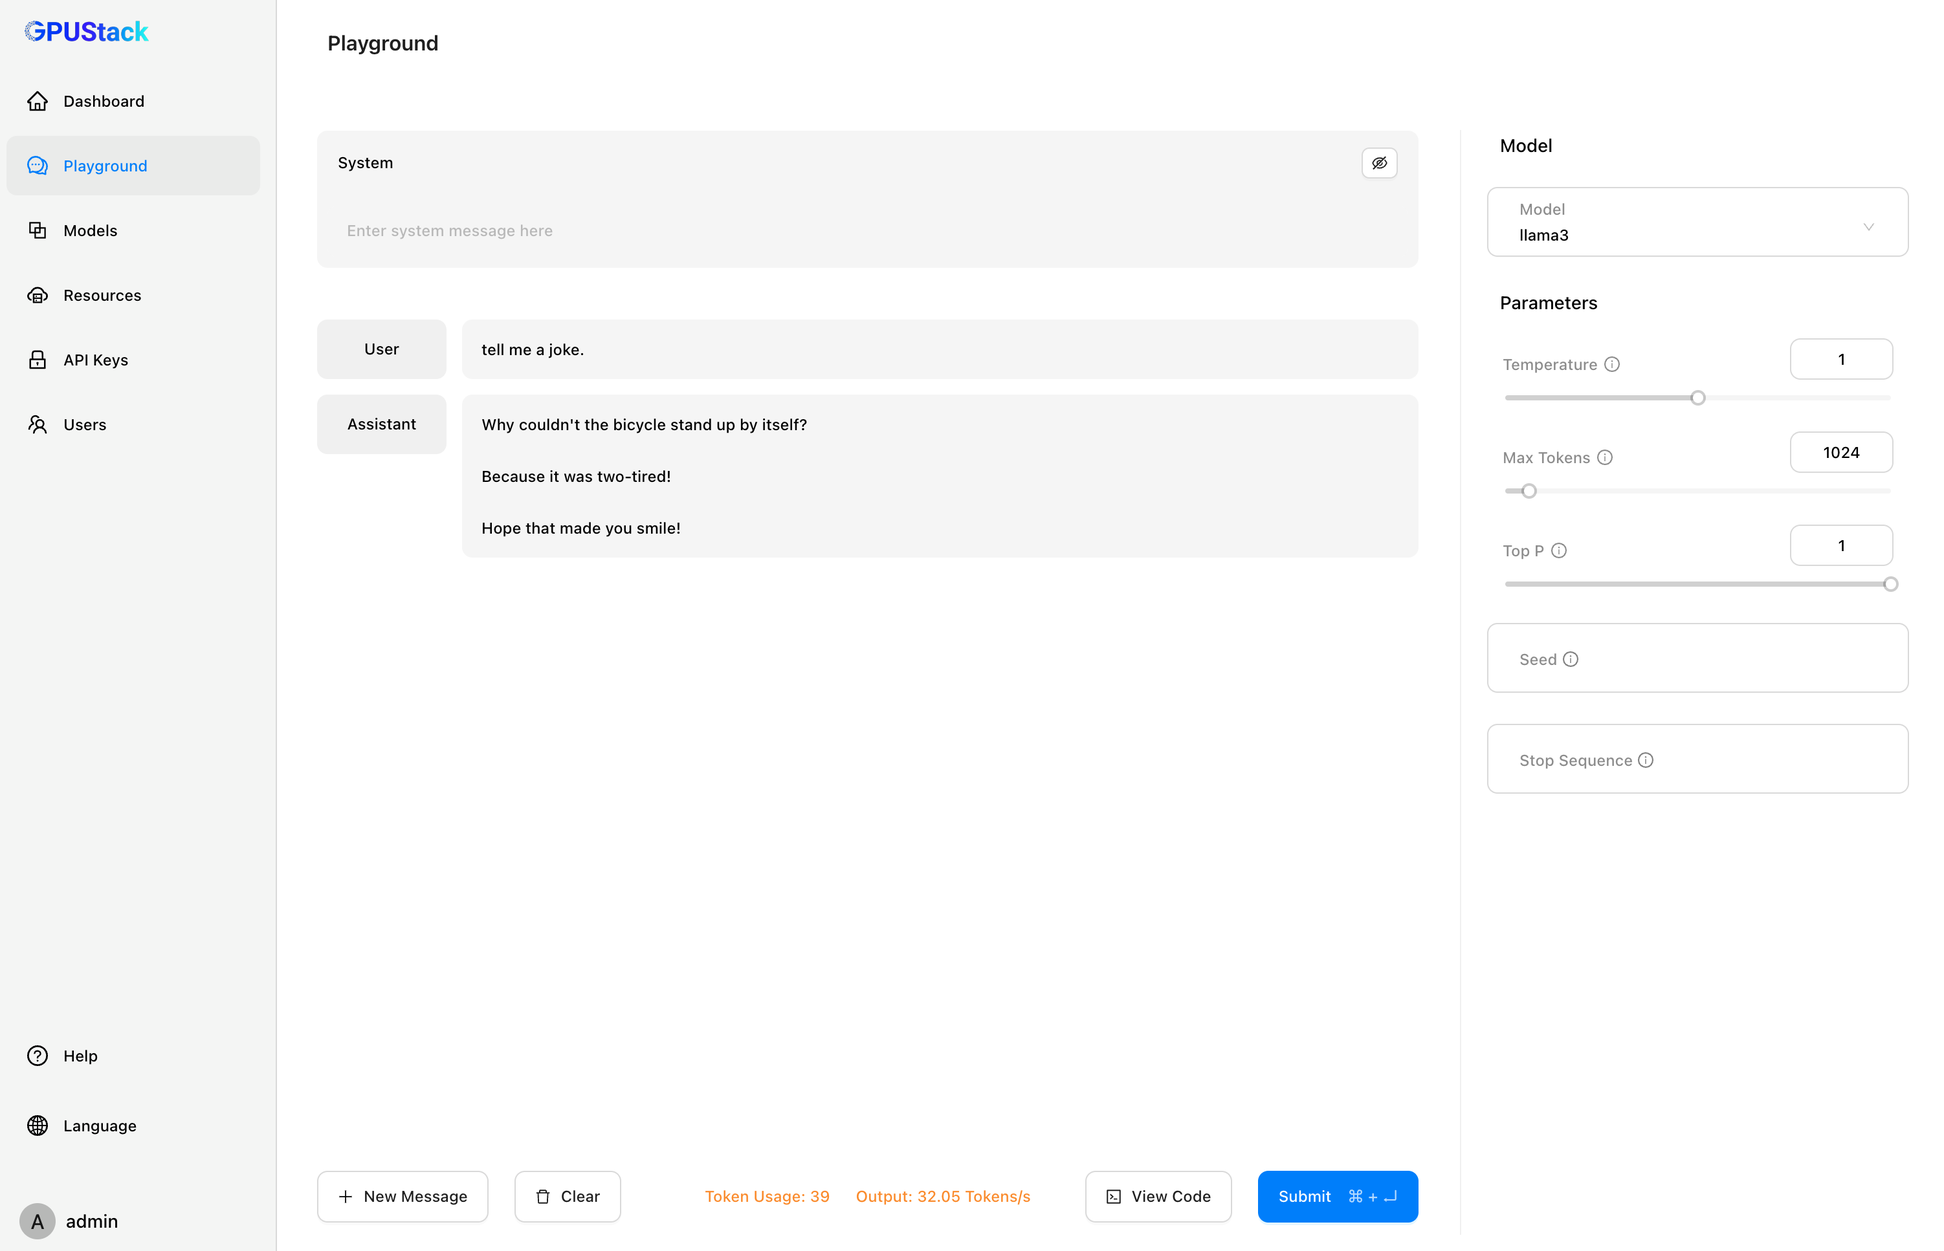
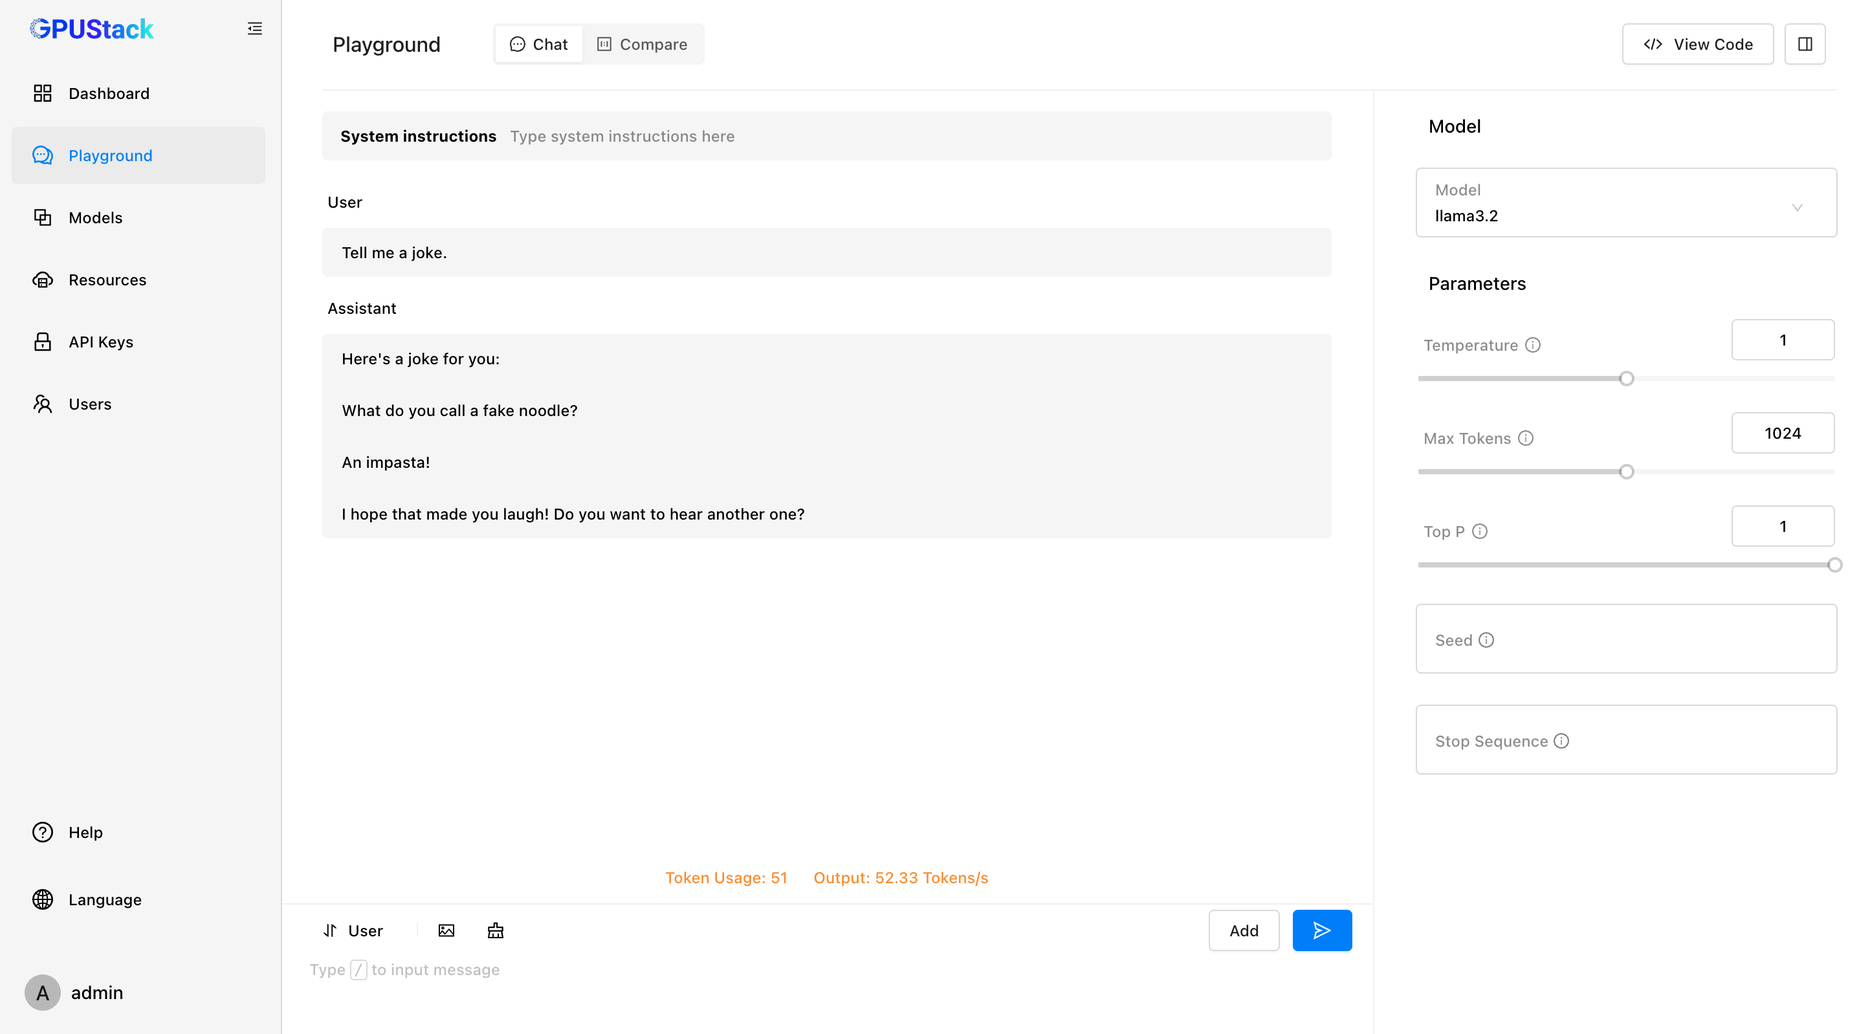
docs: new features

diff --git a/docs/user-guide/model-management.md b/docs/user-guide/model-management.md
@@ -4,13 +4,27 @@ You can manage large language models in GPUStack by navigating to the `Models` p
 
 ## Deploy Model
 
-Currently, models from [Hugging Face](https://huggingface.co) and [Ollama](https://ollama.com/library) in [GGUF format](https://github.com/ggerganov/ggml/blob/master/docs/gguf.md) are supported.
+Currently, models from [Hugging Face](https://huggingface.co), [ModelScope](https://modelscope.cn) and [Ollama](https://ollama.com/library) are supported.
 
 ### Deploying a Hugging Face Model
 
 1. Click the `Deploy Model` button, then select `Hugging Face` in the dropdown.
 
 2. Search the model by name from Hugging Face using the search bar in the top left. For example, `microsoft/Phi-3-mini-4k-instruct-gguf`. If you only want to search for GGUF models, check the "GGUF" checkbox.
+
+3. Select a file with the desired quantization format from `Available Files`.
+
+4. Adjust the `Name` and `Replicas` as needed.
+
+5. Expand the `Advanced` section for advanced configurations if needed. Please refer to the [Advanced Model Configuration](#advanced-model-configuration) section for more details.
+
+6. Click the `Save` button.
+
+### Deploying an ModelScope Model
+
+1. Click the `Deploy Model` button, then select `ModelScope` in the dropdown.
+
+2. Search the model by name from ModelScope using the search bar in the top left. For example, `Qwen/Qwen2-0.5B-Instruct`. If you only want to search for GGUF models, check the "GGUF" checkbox.
 
 3. Select a file with the desired quantization format from `Available Files`.
 
@@ -34,26 +48,16 @@ Currently, models from [Hugging Face](https://huggingface.co) and [Ollama](https
 
 6. Click the `Save` button.
 
-### Deploying an ModelScope Model
-
-1. Click the `Deploy Model` button, then select `ModelScope` in the dropdown.
-
-2. Search the model by name from ModelScope using the search bar in the top left. For example, `Qwen/Qwen2-0.5B-Instruct`. If you only want to search for GGUF models, check the "GGUF" checkbox.
-
-3. Select a file with the desired quantization format from `Available Files`.
-
-4. Adjust the `Name` and `Replicas` as needed.
-
-5. Expand the `Advanced` section for advanced configurations if needed. Please refer to the [Advanced Model Configuration](#advanced-model-configuration) section for more details.
-
-6. Click the `Save` button.
-
 ## Edit Model
 
 1. Find the model you want to edit on the model list page.
 2. Click the `Edit` button in the `Operations` column.
 3. Update the attributes as needed. For example, change the `Replicas` to scale up or down.
 4. Click the `Save` button.
+
+!!! note
+
+    After editing the model, the configuration will not be applied to existing model instances. You need to delete the existing model instances. GPUStack will recreate new instances based on the updated model configuration.
 
 ## Delete Model
 
@@ -118,17 +122,17 @@ GPUStack automatically schedules model instances to appropriate GPUs/Workers bas
 
 - Placement Strategy
 
-    - Spread: Make the resources of the entire cluster relatively evenly distributed among all workers. It may produce more resource fragmentation on a single worker.
+  - Spread: Make the resources of the entire cluster relatively evenly distributed among all workers. It may produce more resource fragmentation on a single worker.
 
-    - Binpack: Prioritize the overall utilization of cluster resources, reducing resource fragmentation on Workers/GPUs.
+  - Binpack: Prioritize the overall utilization of cluster resources, reducing resource fragmentation on Workers/GPUs.
 
 - Worker Selector
 
-    When configured, the scheduler will deploy the model instance to the worker containing specified labels.
+  When configured, the scheduler will deploy the model instance to the worker containing specified labels.
 
-    1. Navigate to the `Resources` page and edit the desired worker. Assign custom labels to the worker by adding them in the labels section.
+  1. Navigate to the `Resources` page and edit the desired worker. Assign custom labels to the worker by adding them in the labels section.
 
-    2. Go to the `Models` page and click on the `Deploy Model` button. Expand the `Advanced` section and input the previously assigned worker labels in the `Worker Selector` configuration. During deployment, the Model Instance will be allocated to the corresponding worker based on these labels.
+  2. Go to the `Models` page and click on the `Deploy Model` button. Expand the `Advanced` section and input the previously assigned worker labels in the `Worker Selector` configuration. During deployment, the Model Instance will be allocated to the corresponding worker based on these labels.
 
 #### Manual
 
@@ -136,30 +140,33 @@ This schedule type allows users to specify which GPU to deploy the model instanc
 
 - GPU Selector
 
-    Select a GPU from the list. The model instance will attempt to deploy to this GPU if resources permit.
+  Select a GPU from the list. The model instance will attempt to deploy to this GPU if resources permit.
 
 ### Backend
 
-#### llama-box
+The inference backend. Currently, GPUStack supports two backends: llama-box and vLLM. GPUStack automatically selects the backend based on the model's information.
 
-[llama-box](https://github.com/gpustack/llama-box) is a LLM inference engine implementation based on llama.cpp. This backend supports deploying GGUF model files, CPU offloading and distributed inference across workers.
+For more details, please refer to the [Inference Backends](./inference-backends.md) section.
 
-- Backend Parameters
+### Backend Parameters
 
-    Input the paramters for llama-box you want to customize while running llama-box backend, for example `--ctx-size=8192`. You can see the list of supported parameters [here](https://github.com/gpustack/llama-box).
+Input the parameters for the backend you want to customize while running the model instance. Should be in the format `--parameter=value`, `--bool-parameter` or separate `--parameter` and `value` in two fields.
+For example, `--ctx-size=8192` for llama-box.
 
-- Allow CPU Offloading
+For full list of supported parameters, please refer to the [Inference Backends](./inference-backends.md) section.
 
-    After enabling CPU offloading, GPUStack prioritizes loading as many layers as possible onto the GPU to maximize performance. If GPU resources are limited, some layers will be offloaded to the CPU, with full CPU inference used only when no GPU is available.
+### Allow CPU Offloading
 
-- Allow Distributed Inference Across Workers
+!!! note
 
-    Enable distributed inference across multiple workers. The primary Model Instance will communicate with backend instances on one or more others workers, offloading computation tasks to them.
+    Available for llama-box backend only.
 
-#### vLLM
+After enabling CPU offloading, GPUStack prioritizes loading as many layers as possible onto the GPU to optimize performance. If GPU resources are limited, some layers will be offloaded to the CPU, with full CPU inference used only when no GPU is available.
 
-[vLLM](https://github.com/vllm-project/vllm) is a high-throughput and memory-efficient LLMs inference engine. vLLM seamlessly supports most popular open-source models, including: Transformer-like LLMs (e.g., Llama), Mixture-of-Expert LLMs (e.g., Mixtral), Embedding Models (e.g. E5-Mistral), Multi-modal LLMs (e.g., LLaVA)
+### Allow Distributed Inference Across Workers
 
-- Backend Parameters
+!!! note
 
-    Input the paramters for llama-box you want to customize while running vLLM backend, for example `--max-model-len=8192`. You can see the list of supported parameters [here](https://docs.vllm.ai/en/latest/models/engine_args.html).
+    Available for llama-box backend only.
+
+Enable distributed inference across multiple workers. The primary Model Instance will communicate with backend instances on one or more other workers, offloading computation tasks to them.

diff --git a/docs/overview.md b/docs/overview.md
@@ -9,6 +9,7 @@ GPUStack is an open-source GPU cluster manager for running large language models
 - **Supports a Wide Variety of Hardware:** Run with different brands of GPUs in Apple MacBooks, Windows PCs, and Linux servers.
 - **Scales with Your GPU Inventory:** Easily add more GPUs or nodes to scale up your operations.
 - **Distributed Inference**: Supports both single-node multi-GPU and multi-node inference and serving.
+- **Multiple Inference Backends**: Supports llama-box(llama.cpp) and vLLM as the inference backend.
 - **Lightweight Python Package:** Minimal dependencies and operational overhead.
 - **OpenAI-compatible APIs:** Serve APIs that are compatible with OpenAI standards.
 - **User and API key management:** Simplified management of users and API keys.
@@ -21,12 +22,14 @@ GPUStack is an open-source GPU cluster manager for running large language models
 - [x] Windows
 - [x] Linux
 
-| Distributions | Versions        | 
-|---------------|-----------------| 
+The following Linux distributions are verified to work with GPUStack:
+
+| Distributions | Versions        |
+| ------------- | --------------- |
 | Ubuntu        | \>= 20.04       |
 | Debian        | \>= 11          |
-| RHEL          | \>= 9           |
-| Rocky         | \>= 9           |
+| RHEL          | \>= 8           |
+| Rocky         | \>= 8           |
 | Fedora        | \>= 36          |
 | OpenSUSE      | \>= 15.3 (leap) |
 | OpenEuler     | \>= 22.03       |
@@ -34,7 +37,6 @@ GPUStack is an open-source GPU cluster manager for running large language models
 !!! note
 
     The installation of GPUStack worker on a Linux system requires that the GLIBC version be 2.29 or higher.
-
 
 ## Supported Accelerators
 
@@ -50,29 +52,36 @@ We plan to support the following accelerators in future releases.
 
 ## Supported Models
 
-GPUStack uses [llama.cpp](https://github.com/ggerganov/llama.cpp) as the backend and supports large language models in [GGUF format](https://github.com/ggerganov/ggml/blob/master/docs/gguf.md). Models from the following sources are supported:
+GPUStack uses [llama.cpp](https://github.com/ggerganov/llama.cpp) and [vLLM](https://github.com/vllm-project/vllm) as the backends and supports a wide range of models. Models from the following sources are supported:
 
 1. [Hugging Face](https://huggingface.co/)
 
-2. [Ollama Library](https://ollama.com/library)
+2. [ModelScope](https://modelscope.cn/)
 
-Here are some example models:
+3. [Ollama Library](https://ollama.com/library)
+
+Example language models:
 
 - [x] [LLaMA](https://huggingface.co/meta-llama)
 - [x] [Mistral 7B](https://huggingface.co/mistralai/Mistral-7B-v0.1)
 - [x] [Mixtral MoE](https://huggingface.co/models?search=mistral-ai/Mixtral)
-- [x] [DBRX](https://huggingface.co/databricks/dbrx-instruct)
 - [x] [Falcon](https://huggingface.co/models?search=tiiuae/falcon)
 - [x] [Baichuan](https://huggingface.co/models?search=baichuan-inc/Baichuan)
-- [x] [Aquila](https://huggingface.co/models?search=BAAI/Aquila)
 - [x] [Yi](https://huggingface.co/models?search=01-ai/Yi)
-- [x] [StableLM](https://huggingface.co/stabilityai)
 - [x] [Deepseek](https://huggingface.co/models?search=deepseek-ai/deepseek)
 - [x] [Qwen](https://huggingface.co/models?search=Qwen/Qwen)
 - [x] [Phi](https://huggingface.co/models?search=microsoft/phi)
-- [x] [Gemma](https://huggingface.co/models?search=google/gemma)
-- [x] [Mamba](https://huggingface.co/models?search=state-spaces/mamba)
 - [x] [Grok-1](https://huggingface.co/xai-org/grok-1)
+
+Example multimodal models:
+
+- [x] [Llama3.2-Vision](https://huggingface.co/models?pipeline_tag=image-text-to-text&search=llama3.2)
+- [x] [Pixtral](https://huggingface.co/models?search=pixtral)
+- [x] [Qwen2-VL](https://huggingface.co/models?search=Qwen/Qwen2-VL)
+- [x] [LLaVA](https://huggingface.co/models?search=llava)
+- [x] [InternVL2](https://huggingface.co/models?search=internvl2)
+
+For full list of supported models, please refer to the supported models section in the [inference backends](./user-guide/inference-backends.md) documentation.
 
 ## OpenAI-Compatible APIs
 

diff --git a/docs/user-guide/inference-backends.md b/docs/user-guide/inference-backends.md
@@ -1,0 +1,72 @@
+# Inference Backends
+
+GPUStack supports the following inference backends:
+
+- llama-box
+- vLLM
+
+When users deploy a model, the backend is selected automatically based on the following criteria:
+
+- If the model is a [GGUF](https://github.com/ggerganov/ggml/blob/master/docs/gguf.md) model, llama-box is used.
+- Otherwise, vLLM is used.
+
+## llama-box
+
+[llama-box](https://github.com/gpustack/llama-box) is a LLM inference server based on [llama.cpp](https://github.com/ggerganov/llama.cpp).
+
+### Supported Platforms
+
+The llama-box backend works on a wide range of platforms, including Windows, MacOS, and Linux.
+
+### Supported Models
+
+Please refer to the list of supported models in [README](https://github.com/ggerganov/llama.cpp#description) of llama.cpp project.
+
+### Supported Features
+
+#### Allow CPU Offloading
+
+After enabling CPU offloading, GPUStack prioritizes loading as many layers as possible onto the GPU to optimize performance. If GPU resources are limited, some layers will be offloaded to the CPU, with full CPU inference used only when no GPU is available.
+
+#### Allow Distributed Inference Across Workers
+
+Enable distributed inference across multiple workers. The primary Model Instance will communicate with backend instances on one or more others workers, offloading computation tasks to them.
+
+### Parameters Reference
+
+See the full list of supported parameters for llama-box [here](https://github.com/gpustack/llama-box#usage).
+
+## vLLM
+
+[vLLM](https://github.com/vllm-project/vllm) is a high-throughput and memory-efficient LLMs inference engine. It is a popular choice for running LLMs in production. vLLM seamlessly supports most state-of-the-art open-source models, including: Transformer-like LLMs (e.g., Llama), Mixture-of-Expert LLMs (e.g., Mixtral), Embedding Models (e.g. E5-Mistral), Multi-modal LLMs (e.g., LLaVA)
+
+By default, GPUStack estimates the VRAM requirement for the model instance based on the model's metadata. You can customize the parameters to fit your needs. The following vLLM parameters might be useful:
+
+- `--gpu-memory-utilization` (default: 0.9): The fraction of GPU memory to use for the model instance.
+- `--max-model-len`: Model context length. For large-context models, GPUStack automatically sets this parameter to `8192` to simplify model deployment, especially in resource constrained environments. You can customize this parameter to fit your needs.
+- `--tensor-parallel-size`: Number of tensor parallel replicas. By default, GPUStack sets this parameter given the GPU resources available and the estimation of the model's memory requirement. You can customize this parameter to fit your needs.
+
+For more details, please refer to [vLLM documentation](https://docs.vllm.ai/en/stable/serving/openai_compatible_server.html#command-line-arguments-for-the-server).
+
+### Supported Platforms
+
+The vLLM backend works on Linux.
+
+!!! note
+
+    1. When users install GPUStack on amd64 Linux using the installation script, vLLM is automatically installed.
+    2. When users deploy a model using the vLLM backend, GPUStack sets worker label selectors to `{"os": "linux", "arch": "amd64"}` by default to ensure the model instance is scheduled to proper workers. You can customize the worker label selectors in the model configuration.
+
+### Supported Models
+
+Please refer to the vLLM [documentation](https://docs.vllm.ai/en/stable/models/supported_models.html) for supported models.
+
+### Supported Features
+
+#### Multimodal Language Models
+
+vLLM supports multimodal language models listed [here](https://docs.vllm.ai/en/stable/models/supported_models.html#multimodal-language-models). When users deploy a vision language model using the vLLM backend, image inputs are supported in the chat completion API.
+
+### Parameters Reference
+
+See the full list of supported parameters for vLLM [here](https://docs.vllm.ai/en/stable/serving/openai_compatible_server.html#command-line-arguments-for-the-server).

diff --git a/docs/user-guide/playground.md b/docs/user-guide/playground.md
@@ -4,7 +4,9 @@ GPUStack provides a playground UI for users to test or play with the completion 
 
 ![Playground Screenshot](../assets/playground-screenshot.png)
 
-## Prompts
+## Chat Playground
+
+### Prompts
 
 You can adjust the prompt messages on the left side of the playground. There are three role types of prompt messages: system, user, and assistant.
 
@@ -12,11 +14,11 @@ You can adjust the prompt messages on the left side of the playground. There are
 - **User**: The input or query provided by the user (the person interacting with the LLM).
 - **Assistant**: The response generated by the LLM.
 
-## Edit System Message
+### Edit System Message
 
 You can add and edit the system message at the top of the playground.
 
-## Edit User and Assistant Messages
+### Edit User and Assistant Messages
 
 To add a user or assistant message, click the `New Message` button.
 
@@ -24,22 +26,56 @@ To remove a user or assistant message, click the minus button at the right corne
 
 To change the role of a message, click the `User` or `Assistant` text at the beginning of the message.
 
-## Clear Prompts
+### Upload Image
+
+You can add images to the prompt by clicking the `Upload Image` button.
+
+### Clear Prompts
 
 Click the `Clear` button to clear all the prompts.
 
-## Select Model
+### Select Model
 
 You can select available models in GPUStack by clicking the model dropdown at the top-right corner of the playground. Please refer to [Model Management](./model-management.md) to learn about how to manage models.
 
-## Customize Parameters
+### Customize Parameters
 
 You can customize completion parameters in the `Parameters` section.
 
-## Do Completion
+### Do Completion
 
 You can do a completion by clicking the `Submit` button.
 
-## View Code
+### View Code
 
 Once you've done experimenting with the prompts and parameters, you can click the `View Code` button to check how you can call the API with the same input by code. Code examples in `curl`, `python`, and `nodejs` are provided.
+
+## Compare Playground
+
+You can compare multiple models in the playground. The following is an example screenshot:
+
+![Compare Playground Screenshot](../assets/compare-playground-screenshot.png)
+
+### Comparision Mode
+
+You can choose the number of models to compare by clicking the comparison view buttons, including 2, 3, 4 and 6-model comparison.
+
+### Prompts
+
+You can adjust the prompt messages similar to the chat playground.
+
+### Upload Image
+
+You can add images to the prompt by clicking the `Upload Image` button.
+
+### Clear Prompts
+
+Click the `Clear` button to clear all the prompts.
+
+### Select Model
+
+You can select available models in GPUStack by clicking the model dropdown at the top-left corner of each model panel.
+
+### Customize Parameters
+
+You can customize completion parameters by clicking the settings button of each model.

diff --git a/docs/scheduler.md b/docs/scheduler.md
@@ -42,8 +42,8 @@ The scoring phase evaluates the filtered candidates, scoring them to select the 
 
 - Binpack
 
-  This strategy aims to "pack" as many model instances as possible into the fewest number of "bins" (e.g., Workers/GPUs) to maximize resource utilization. The goal is to minimize the number of bins used while maximizing resource efficiency, ensuring each bin is filled as efficiently as possible without exceeding its capacity. Model instances are placed in the bin with the least remaining space to minimize leftover capacity in each bin.
+  This strategy aims to "pack" as many model instances as possible into the fewest number of "bins" (e.g., Workers/GPUs) to optimize resource utilization. The goal is to minimize the number of bins used while maximizing resource efficiency, ensuring each bin is filled as efficiently as possible without exceeding its capacity. Model instances are placed in the bin with the least remaining space to minimize leftover capacity in each bin.
 
 - Spread
-  
+
   This strategy seeks to distribute multiple model instances across different worker nodes as evenly as possible, improving system fault tolerance and load balancing.

diff --git a/docs/architecture.md b/docs/architecture.md
@@ -26,7 +26,7 @@ The GPUStack server connects to a SQL database as the datastore. Currently, GPUS
 
 ### Inference Server
 
-Inference servers are the backends that performs the inference tasks. GPUStack uses [llama-box](https://github.com/gpustack/llama-box) as the inference server.
+Inference servers are the backends that performs the inference tasks. GPUStack supports [llama-box](https://github.com/gpustack/llama-box) and [vLLM](https://github.com/vllm-project/vllm) as the inference server.
 
 ### RPC Server
 
